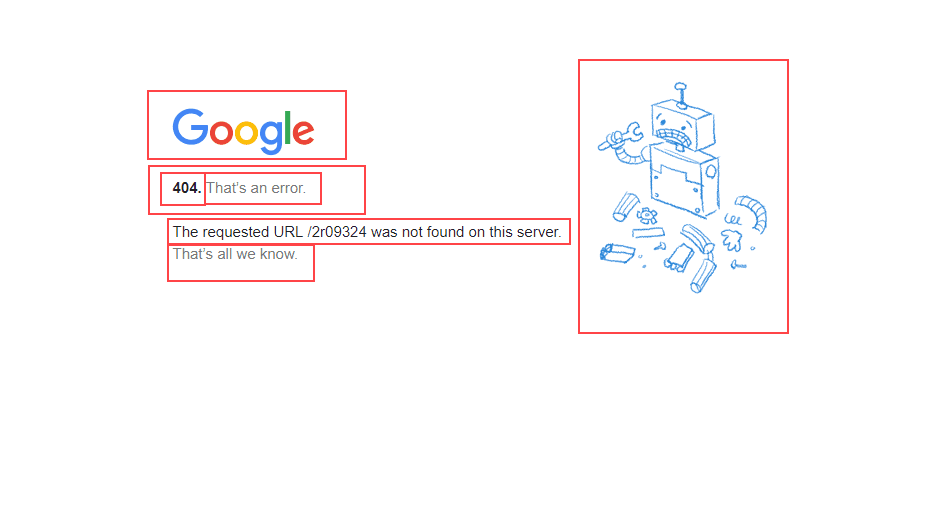
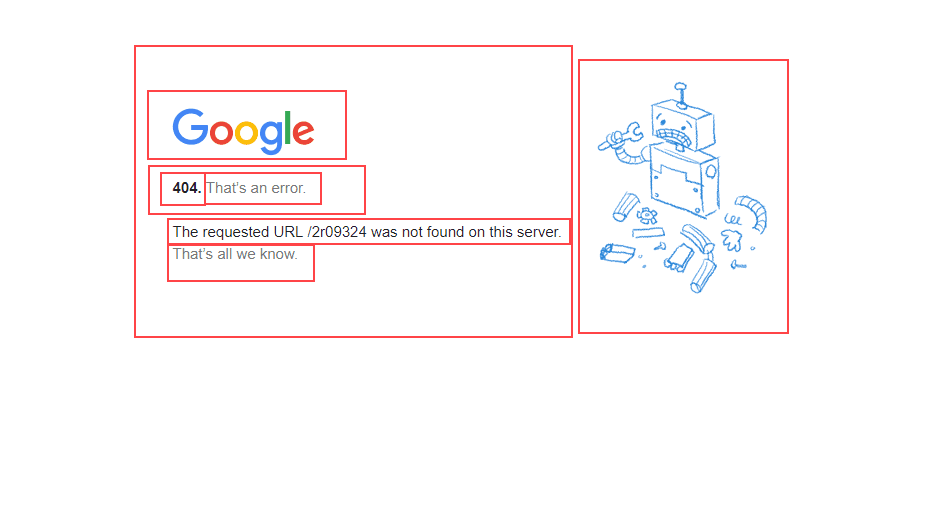
supjaustyti tagais

Changed region(s): [[0.1235, 0.0886, 0.6177, 0.1181], [0.1544, 0.6496, 0.6177, 0.6791]]

diff --git a/index.html b/index.html
@@ -3,28 +3,23 @@
 <head>
     <meta charset="UTF-8">
     <meta name="viewport" content="width=device-width, initial-scale=1.0">
-    <title>Document</title>
+    <title>Dizainas1</title>
 </head>
 <body>
-    <div>
+    <main>
+        <!-- kairysis stulpelis -->
         <div>
-            Google
+            <h1><b>Google</b></h1>
+            <h2><b>404.</b></h2>
+            <p><tt>Thats an error</tt></p>
+            <p>The request URL/2r09324 was not found on this server</p>
+            <p><tt>That's all we know</tt></p> 
         </div>
+
+        <!-- Desinysis stulpelis -->
         <div>
-            404.
+            <img src="Nuotrauka.png" alt="Robotukas">
         </div>
-        <div>
-            Thats an error
-        </div>
-        <div>
-            The request URL/2r09324 was not found on this server
-        </div>
-        <div>
-            Thats all we know
-        </div>
-        <div>
-            <img src="Nuotrauka.png" alt="Robotukas" align= right>
-        </div>
-    </div>
+    </main>
 </body>
 </html>
